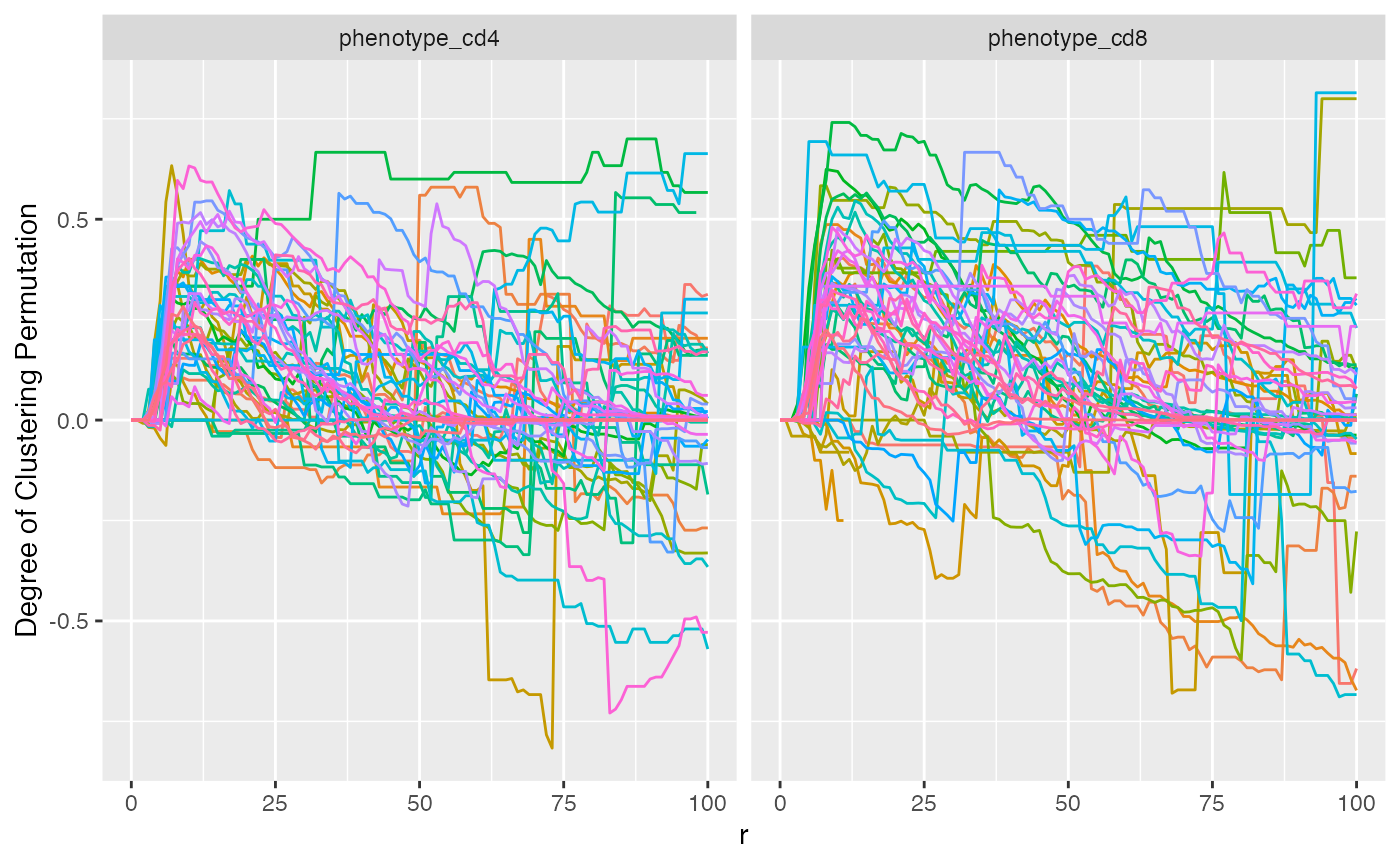
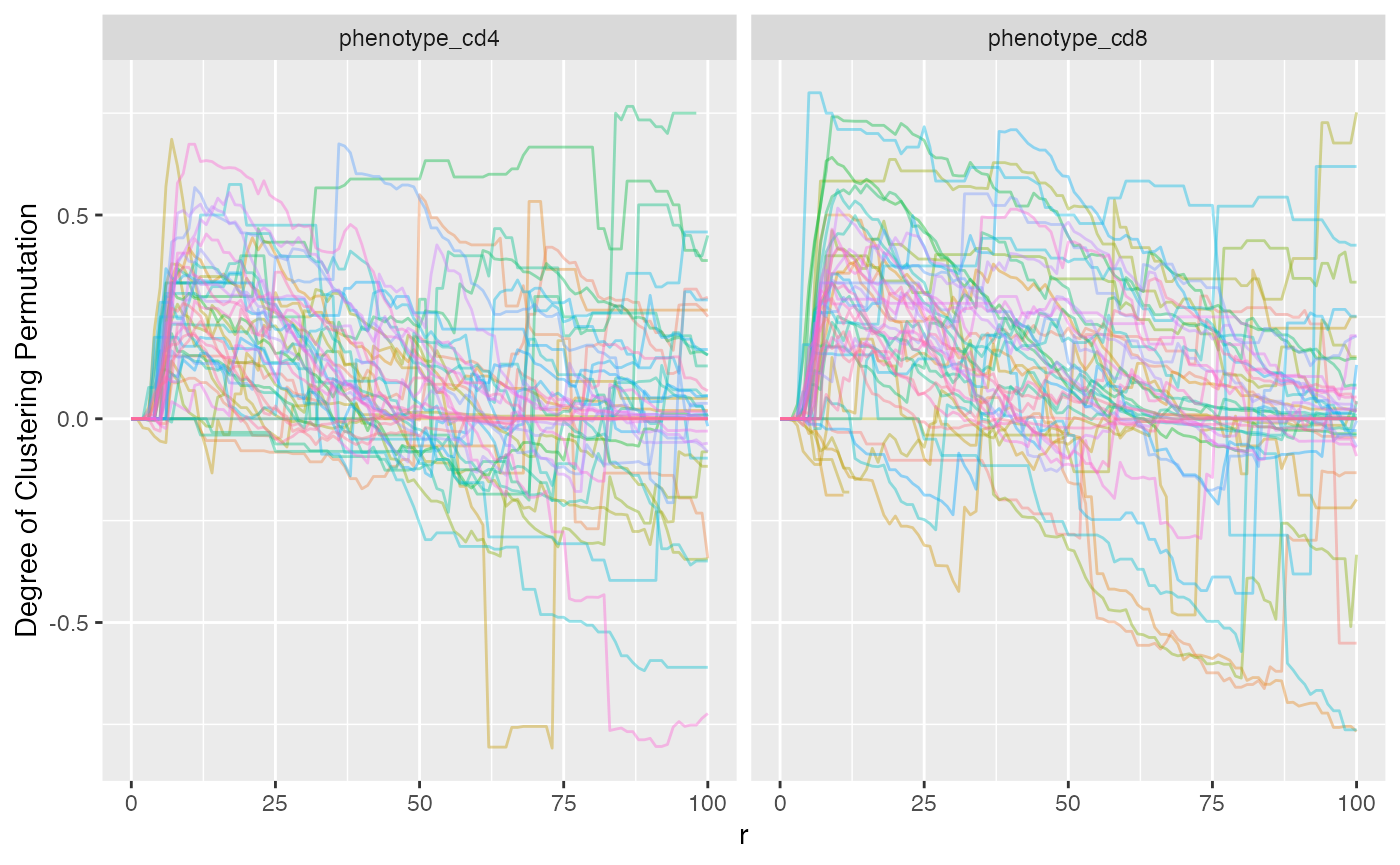
updated spatialTIME, updated mx_fda vignette, added spatialTIME ref

diff --git a/docs/articles/a01_mx_fda.html b/docs/articles/a01_mx_fda.html
@@ -4,76 +4,86 @@
 <meta http-equiv="Content-Type" content="text/html; charset=UTF-8">
 <meta charset="utf-8">
 <meta http-equiv="X-UA-Compatible" content="IE=edge">
-<meta name="viewport" content="width=device-width, initial-scale=1, shrink-to-fit=no">
-<meta name="description" content="mxfda">
+<meta name="viewport" content="width=device-width, initial-scale=1.0">
 <title>mxFDA Object • mxfda</title>
-<script src="../deps/jquery-3.6.0/jquery-3.6.0.min.js"></script><meta name="viewport" content="width=device-width, initial-scale=1, shrink-to-fit=no">
-<link href="../deps/bootstrap-5.2.2/bootstrap.min.css" rel="stylesheet">
-<script src="../deps/bootstrap-5.2.2/bootstrap.bundle.min.js"></script><!-- Font Awesome icons --><link rel="stylesheet" href="https://cdnjs.cloudflare.com/ajax/libs/font-awesome/5.12.1/css/all.min.css" integrity="sha256-mmgLkCYLUQbXn0B1SRqzHar6dCnv9oZFPEC1g1cwlkk=" crossorigin="anonymous">
+<!-- jquery --><script src="https://cdnjs.cloudflare.com/ajax/libs/jquery/3.4.1/jquery.min.js" integrity="sha256-CSXorXvZcTkaix6Yvo6HppcZGetbYMGWSFlBw8HfCJo=" crossorigin="anonymous"></script><!-- Bootstrap --><link rel="stylesheet" href="https://cdnjs.cloudflare.com/ajax/libs/twitter-bootstrap/3.4.1/css/bootstrap.min.css" integrity="sha256-bZLfwXAP04zRMK2BjiO8iu9pf4FbLqX6zitd+tIvLhE=" crossorigin="anonymous">
+<script src="https://cdnjs.cloudflare.com/ajax/libs/twitter-bootstrap/3.4.1/js/bootstrap.min.js" integrity="sha256-nuL8/2cJ5NDSSwnKD8VqreErSWHtnEP9E7AySL+1ev4=" crossorigin="anonymous"></script><!-- bootstrap-toc --><link rel="stylesheet" href="../bootstrap-toc.css">
+<script src="../bootstrap-toc.js"></script><!-- Font Awesome icons --><link rel="stylesheet" href="https://cdnjs.cloudflare.com/ajax/libs/font-awesome/5.12.1/css/all.min.css" integrity="sha256-mmgLkCYLUQbXn0B1SRqzHar6dCnv9oZFPEC1g1cwlkk=" crossorigin="anonymous">
 <link rel="stylesheet" href="https://cdnjs.cloudflare.com/ajax/libs/font-awesome/5.12.1/css/v4-shims.min.css" integrity="sha256-wZjR52fzng1pJHwx4aV2AO3yyTOXrcDW7jBpJtTwVxw=" crossorigin="anonymous">
-<!-- bootstrap-toc --><script src="https://cdn.jsdelivr.net/gh/afeld/bootstrap-toc@v1.0.1/dist/bootstrap-toc.min.js" integrity="sha256-4veVQbu7//Lk5TSmc7YV48MxtMy98e26cf5MrgZYnwo=" crossorigin="anonymous"></script><!-- headroom.js --><script src="https://cdnjs.cloudflare.com/ajax/libs/headroom/0.11.0/headroom.min.js" integrity="sha256-AsUX4SJE1+yuDu5+mAVzJbuYNPHj/WroHuZ8Ir/CkE0=" crossorigin="anonymous"></script><script src="https://cdnjs.cloudflare.com/ajax/libs/headroom/0.11.0/jQuery.headroom.min.js" integrity="sha256-ZX/yNShbjqsohH1k95liqY9Gd8uOiE1S4vZc+9KQ1K4=" crossorigin="anonymous"></script><!-- clipboard.js --><script src="https://cdnjs.cloudflare.com/ajax/libs/clipboard.js/2.0.6/clipboard.min.js" integrity="sha256-inc5kl9MA1hkeYUt+EC3BhlIgyp/2jDIyBLS6k3UxPI=" crossorigin="anonymous"></script><!-- search --><script src="https://cdnjs.cloudflare.com/ajax/libs/fuse.js/6.4.6/fuse.js" integrity="sha512-zv6Ywkjyktsohkbp9bb45V6tEMoWhzFzXis+LrMehmJZZSys19Yxf1dopHx7WzIKxr5tK2dVcYmaCk2uqdjF4A==" crossorigin="anonymous"></script><script src="https://cdnjs.cloudflare.com/ajax/libs/autocomplete.js/0.38.0/autocomplete.jquery.min.js" integrity="sha512-GU9ayf+66Xx2TmpxqJpliWbT5PiGYxpaG8rfnBEk1LL8l1KGkRShhngwdXK1UgqhAzWpZHSiYPc09/NwDQIGyg==" crossorigin="anonymous"></script><script src="https://cdnjs.cloudflare.com/ajax/libs/mark.js/8.11.1/mark.min.js" integrity="sha512-5CYOlHXGh6QpOFA/TeTylKLWfB3ftPsde7AnmhuitiTX4K5SqCLBeKro6sPS8ilsz1Q4NRx3v8Ko2IBiszzdww==" crossorigin="anonymous"></script><!-- pkgdown --><script src="../pkgdown.js"></script><meta property="og:title" content="mxFDA Object">
+<!-- clipboard.js --><script src="https://cdnjs.cloudflare.com/ajax/libs/clipboard.js/2.0.6/clipboard.min.js" integrity="sha256-inc5kl9MA1hkeYUt+EC3BhlIgyp/2jDIyBLS6k3UxPI=" crossorigin="anonymous"></script><!-- headroom.js --><script src="https://cdnjs.cloudflare.com/ajax/libs/headroom/0.11.0/headroom.min.js" integrity="sha256-AsUX4SJE1+yuDu5+mAVzJbuYNPHj/WroHuZ8Ir/CkE0=" crossorigin="anonymous"></script><script src="https://cdnjs.cloudflare.com/ajax/libs/headroom/0.11.0/jQuery.headroom.min.js" integrity="sha256-ZX/yNShbjqsohH1k95liqY9Gd8uOiE1S4vZc+9KQ1K4=" crossorigin="anonymous"></script><!-- pkgdown --><link href="../pkgdown.css" rel="stylesheet">
+<script src="../pkgdown.js"></script><meta property="og:title" content="mxFDA Object">
 <meta property="og:description" content="mxfda">
 <!-- mathjax --><script src="https://cdnjs.cloudflare.com/ajax/libs/mathjax/2.7.5/MathJax.js" integrity="sha256-nvJJv9wWKEm88qvoQl9ekL2J+k/RWIsaSScxxlsrv8k=" crossorigin="anonymous"></script><script src="https://cdnjs.cloudflare.com/ajax/libs/mathjax/2.7.5/config/TeX-AMS-MML_HTMLorMML.js" integrity="sha256-84DKXVJXs0/F8OTMzX4UR909+jtl4G7SPypPavF+GfA=" crossorigin="anonymous"></script><!--[if lt IE 9]>
 <script src="https://oss.maxcdn.com/html5shiv/3.7.3/html5shiv.min.js"></script>
 <script src="https://oss.maxcdn.com/respond/1.4.2/respond.min.js"></script>
 <![endif]-->
 </head>
-<body>
-    <a href="#main" class="visually-hidden-focusable">Skip to contents</a>
+<body data-spy="scroll" data-target="#toc">
     
 
-    <nav class="navbar fixed-top navbar-light navbar-expand-lg bg-light"><div class="container">
-    
-    <a class="navbar-brand me-2" href="../index.html">mxfda</a>
+    <div class="container template-article">
+      <header><div class="navbar navbar-default navbar-fixed-top" role="navigation">
+  <div class="container">
+    <div class="navbar-header">
+      <button type="button" class="navbar-toggle collapsed" data-toggle="collapse" data-target="#navbar" aria-expanded="false">
+        <span class="sr-only">Toggle navigation</span>
+        <span class="icon-bar"></span>
+        <span class="icon-bar"></span>
+        <span class="icon-bar"></span>
+      </button>
+      <span class="navbar-brand">
+        <a class="navbar-link" href="../index.html">mxfda</a>
+        <span class="version label label-default" data-toggle="tooltip" data-placement="bottom" title="">0.1.0</span>
+      </span>
+    </div>
 
-    <small class="nav-text text-muted me-auto" data-bs-toggle="tooltip" data-bs-placement="bottom" title="">0.1.0</small>
-
-    
-    <button class="navbar-toggler" type="button" data-bs-toggle="collapse" data-bs-target="#navbar" aria-controls="navbar" aria-expanded="false" aria-label="Toggle navigation">
-      <span class="navbar-toggler-icon"></span>
-    </button>
-
-    <div id="navbar" class="collapse navbar-collapse ms-3">
-      <ul class="navbar-nav me-auto">
-<li class="nav-item">
-  <a class="nav-link" href="../reference/index.html">Reference</a>
+    <div id="navbar" class="navbar-collapse collapse">
+      <ul class="nav navbar-nav">
+<li>
+  <a href="../reference/index.html">Reference</a>
 </li>
-<li class="active nav-item dropdown">
-  <a href="#" class="nav-link dropdown-toggle" data-bs-toggle="dropdown" role="button" aria-expanded="false" aria-haspopup="true" id="dropdown-articles">Articles</a>
-  <div class="dropdown-menu" aria-labelledby="dropdown-articles">
-    <a class="dropdown-item" href="../articles/a01_mx_fda.html">mxFDA Object</a>
-    <a class="dropdown-item" href="../articles/a02_mx_fpca.html">mx_fpca</a>
-  </div>
+<li class="dropdown">
+  <a href="#" class="dropdown-toggle" data-toggle="dropdown" role="button" data-bs-toggle="dropdown" aria-expanded="false">
+    Articles
+     
+    <span class="caret"></span>
+  </a>
+  <ul class="dropdown-menu" role="menu">
+<li>
+      <a href="../articles/a01_mx_fda.html">mxFDA Object</a>
+    </li>
+    <li>
+      <a href="../articles/a02_mx_fpca.html">mx_fpca</a>
+    </li>
+  </ul>
 </li>
       </ul>
-<form class="form-inline my-2 my-lg-0" role="search">
-        <input type="search" class="form-control me-sm-2" aria-label="Toggle navigation" name="search-input" data-search-index="../search.json" id="search-input" placeholder="Search for" autocomplete="off">
-</form>
-
-      <ul class="navbar-nav">
-<li class="nav-item">
-  <a class="external-link nav-link" href="https://github.com/julia-wrobel/mxfda/" aria-label="github">
-    <span class="fab fa fab fa-github fa-lg"></span>
+<ul class="nav navbar-nav navbar-right">
+<li>
+  <a href="https://github.com/julia-wrobel/mxfda/" class="external-link">
+    <span class="fab fa-github fa-lg"></span>
      
   </a>
 </li>
       </ul>
 </div>
-
-    
+<!--/.nav-collapse -->
   </div>
-</nav><div class="container template-article">
+<!--/.container -->
+</div>
+<!--/.navbar -->
 
+      
 
-
-
-<div class="row">
-  <main id="main" class="col-md-9"><div class="page-header">
-      <img src="" class="logo" alt=""><h1>mxFDA Object</h1>
+      </header><div class="row">
+  <div class="col-md-9 contents">
+    <div class="page-header toc-ignore">
+      <h1 data-toc-skip>mxFDA Object</h1>
             
       
       <small class="dont-index">Source: <a href="https://github.com/julia-wrobel/mxfda/blob/HEAD/vignettes/a01_mx_fda.Rmd" class="external-link"><code>vignettes/a01_mx_fda.Rmd</code></a></small>
-      <div class="d-none name"><code>a01_mx_fda.Rmd</code></div>
+      <div class="hidden name"><code>a01_mx_fda.Rmd</code></div>
+
     </div>
 
     
@@ -394,6 +404,7 @@ data frame of sample-level summaries, and a data frame for the metadata
 spatial data frame and the clinical data, now we have to convert them
 into something that works with <code>spatialTIME.</code> The steps below
 will be:</p>
+<p><span class="citation">Creed et al. (2021)</span></p>
 <ol style="list-style-type: decimal">
 <li>convert positive/negative to 1/0 integers</li>
 <li>identify which columns in the spatial data frame are cell types</li>
@@ -454,14 +465,14 @@ cells (CD4+).</p>
 <div class="sourceCode" id="cb14"><pre class="downlit sourceCode r">
 <code class="sourceCode R"><span><span class="va">mif</span> <span class="op">=</span> <span class="fu"><a href="https://rdrr.io/pkg/spatialTIME/man/NN_G.html" class="external-link">NN_G</a></span><span class="op">(</span><span class="va">mif</span>, mnames <span class="op">=</span> <span class="va">cell_types</span><span class="op">[</span><span class="fu"><a href="https://rdrr.io/r/base/c.html" class="external-link">c</a></span><span class="op">(</span><span class="fl">2</span>, <span class="fl">6</span><span class="op">)</span><span class="op">]</span>,</span>
 <span>           r_range <span class="op">=</span> <span class="fl">0</span><span class="op">:</span><span class="fl">100</span>, num_permutations <span class="op">=</span> <span class="fl">10</span>, </span>
-<span>           edge_correction <span class="op">=</span> <span class="st">"rs"</span>, keep_permutation_distribution <span class="op">=</span> <span class="cn">FALSE</span>,</span>
+<span>           edge_correction <span class="op">=</span> <span class="st">"rs"</span>, keep_perm_dis <span class="op">=</span> <span class="cn">FALSE</span>,</span>
 <span>           workers <span class="op">=</span> <span class="fl">5</span>, overwrite <span class="op">=</span> <span class="cn">TRUE</span>, xloc <span class="op">=</span> <span class="st">"x"</span>, yloc <span class="op">=</span> <span class="st">"y"</span><span class="op">)</span></span></code></pre></div>
 <p>With <code>spatialTIME</code>, all cell types (markers) are added to
 the data frame. We can visualize both CD8+ and CD4+ with ggplot.</p>
 <div class="sourceCode" id="cb15"><pre class="downlit sourceCode r">
 <code class="sourceCode R"><span><span class="va">mif</span><span class="op">$</span><span class="va">derived</span><span class="op">$</span><span class="va">univariate_NN</span> <span class="op"><a href="https://magrittr.tidyverse.org/reference/pipe.html" class="external-link">%&gt;%</a></span></span>
 <span>    <span class="fu"><a href="https://ggplot2.tidyverse.org/reference/ggplot.html" class="external-link">ggplot</a></span><span class="op">(</span><span class="op">)</span> <span class="op">+</span></span>
-<span>    <span class="fu"><a href="https://ggplot2.tidyverse.org/reference/geom_path.html" class="external-link">geom_line</a></span><span class="op">(</span><span class="fu"><a href="https://ggplot2.tidyverse.org/reference/aes.html" class="external-link">aes</a></span><span class="op">(</span>x <span class="op">=</span> <span class="va">r</span>, y <span class="op">=</span> <span class="va">`Degree of Clustering Permutation`</span>, color <span class="op">=</span> <span class="va">patientImage_id</span><span class="op">)</span><span class="op">)</span> <span class="op">+</span></span>
+<span>    <span class="fu"><a href="https://ggplot2.tidyverse.org/reference/geom_path.html" class="external-link">geom_line</a></span><span class="op">(</span><span class="fu"><a href="https://ggplot2.tidyverse.org/reference/aes.html" class="external-link">aes</a></span><span class="op">(</span>x <span class="op">=</span> <span class="va">r</span>, y <span class="op">=</span> <span class="va">`Degree of Clustering Permutation`</span>, color <span class="op">=</span> <span class="va">patientImage_id</span><span class="op">)</span>, alpha <span class="op">=</span> <span class="fl">0.4</span><span class="op">)</span> <span class="op">+</span></span>
 <span>    <span class="fu"><a href="https://ggplot2.tidyverse.org/reference/facet_grid.html" class="external-link">facet_grid</a></span><span class="op">(</span><span class="op">~</span><span class="va">Marker</span><span class="op">)</span> <span class="op">+</span></span>
 <span>  <span class="fu"><a href="https://ggplot2.tidyverse.org/reference/theme.html" class="external-link">theme</a></span><span class="op">(</span>legend.position <span class="op">=</span> <span class="st">"none"</span><span class="op">)</span></span>
 <span><span class="co">#&gt; Warning: Removed 1086 rows containing missing values (`geom_line()`).</span></span></code></pre></div>
@@ -508,6 +519,14 @@ continue with analyses as would be done if using the internal
 <h2 class="unnumbered" id="references">References<a class="anchor" aria-label="anchor" href="#references"></a>
 </h2>
 <div id="refs" class="references csl-bib-body hanging-indent">
+<div id="ref-10.1093/bioinformatics/btab757" class="csl-entry">
+Creed, Jordan H, Christopher M Wilson, Alex C Soupir, Christelle M
+Colin-Leitzinger, Gregory J Kimmel, Oscar E Ospina, Nicholas H
+Chakiryan, et al. 2021. <span>“<span class="nocase">spatialTIME and
+iTIME: R package and Shiny application for visualization and analysis of
+immunofluorescence data</span>.”</span> <em>Bioinformatics</em> 37 (23):
+4584–86. <a href="https://doi.org/10.1093/bioinformatics/btab757" class="external-link">https://doi.org/10.1093/bioinformatics/btab757</a>.
+</div>
 <div id="ref-wrobel_2019" class="csl-entry">
 Wrobel, J., V. Zipunnikov, J. Schrack, and J. Goldsmith. 2019.
 <span>“Registration for Exponential Family Functional Data.”</span>
@@ -515,26 +534,33 @@ Wrobel, J., V. Zipunnikov, J. Schrack, and J. Goldsmith. 2019.
 </div>
 </div>
 </div>
-  </main><aside class="col-md-3"><nav id="toc"><h2>On this page</h2>
-    </nav></aside>
+  </div>
+
+  <div class="col-md-3 hidden-xs hidden-sm" id="pkgdown-sidebar">
+
+        <nav id="toc" data-toggle="toc"><h2 data-toc-skip>Contents</h2>
+    </nav>
+</div>
+
 </div>
 
 
 
-    <footer><div class="pkgdown-footer-left">
+      <footer><div class="copyright">
   <p></p>
 <p>Developed by Julia Wrobel, Alex Soupir.</p>
 </div>
 
-<div class="pkgdown-footer-right">
+<div class="pkgdown">
   <p></p>
 <p>Site built with <a href="https://pkgdown.r-lib.org/" class="external-link">pkgdown</a> 2.0.7.</p>
 </div>
 
-    </footer>
+      </footer>
 </div>
 
   
+
 
   
 
